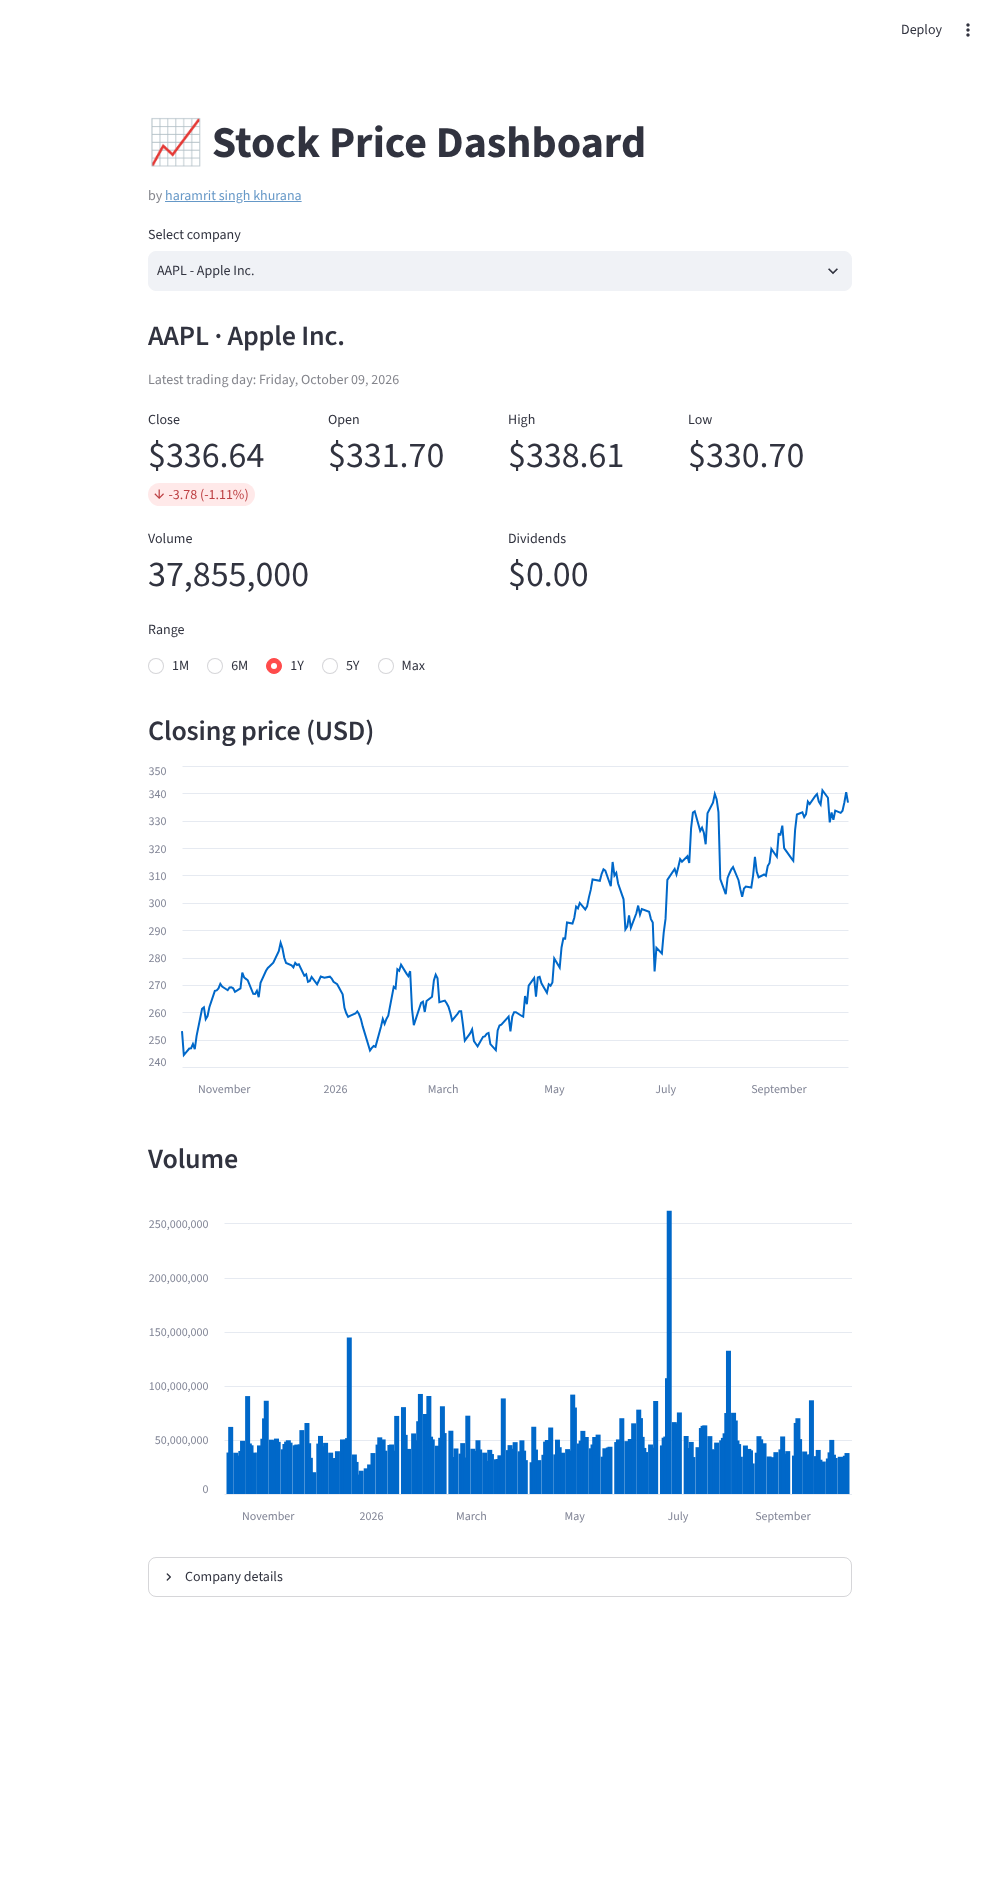
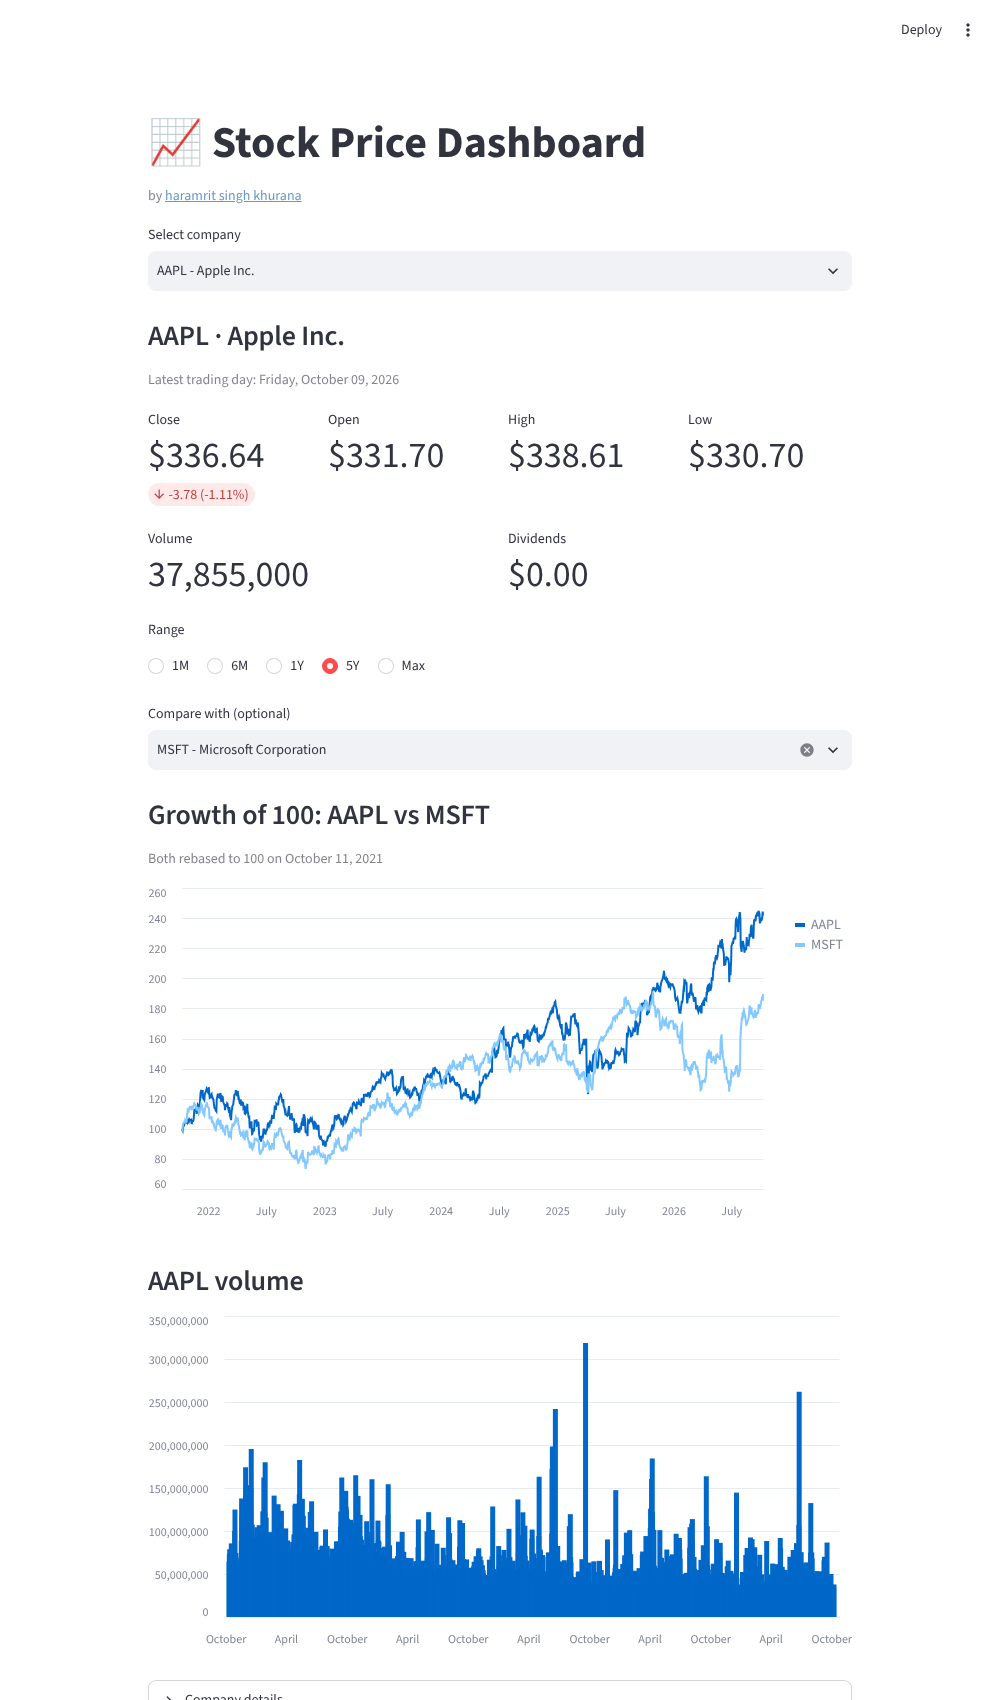
Add optional company comparison, rebased to 100
A second picker overlays another company on the price chart. Both series
are rebased to 100 over the days they both traded in the chosen range.
The comparison is stored in the URL (?compare=MSFT) like the other options.
README updated with the new features and a current screenshot.

Claude-Session: https://claude.ai/code/session_01MhVcD4fY7mhA7hBYkdzYRu

diff --git a/Stock Price Dashboard.py b/Stock Price Dashboard.py
@@ -35,6 +35,8 @@ if 'company' not in st.session_state:
 if 'range' not in st.session_state:
     r = st.query_params.get('range')
     st.session_state.range = r if r in RANGES else '1Y'
+if 'compare' not in st.session_state:
+    st.session_state.compare = label_of.get(st.query_params.get('compare'))
 
 choice = st.selectbox('Select company', labels, key='company')
 company = tickers[tickers['Label'] == choice].iloc[0]
@@ -75,16 +77,58 @@ days = RANGES[range_choice]
 st.query_params['range'] = range_choice
 view = history if days is None else history[history.index >= history.index[-1] - pd.Timedelta(days=days)]
 
-st.subheader("Closing price (USD)")
-# let the y-axis fit the data instead of starting at 0, so price moves are visible
-price_chart = alt.Chart(view['Close'].reset_index()).mark_line().encode(
-    x=alt.X('Date:T', title=None),
-    y=alt.Y('Close:Q', scale=alt.Scale(zero=False), title=None),
-    tooltip=[alt.Tooltip('Date:T'), alt.Tooltip('Close:Q', format='$.2f')],
-)
-st.altair_chart(price_chart)
+compare_choice = st.selectbox('Compare with (optional)', labels, index=None, key='compare',
+                              placeholder='Type a symbol or company name')
 
-st.subheader("Volume")
+# optional second company, drawn on the same chart
+other = None
+if compare_choice:
+    other = tickers[tickers['Label'] == compare_choice].iloc[0]
+    if other['Symbol'] == company['Symbol']:
+        st.info("Pick a different company to compare.")
+        other = None
+    else:
+        other_history = load_history(other['Symbol'])
+        if other_history.empty:
+            st.warning(f"No price data found for {other['Symbol']}, so it can't be compared.")
+            other = None
+
+if other is not None:
+    # rebase both to 100 at the start so growth is comparable, using only the days both traded
+    closes = pd.concat({company['Symbol']: history['Close'], other['Symbol']: other_history['Close']}, axis=1)
+    closes.index = closes.index.tz_localize(None)
+    closes = closes.dropna()
+    if days is not None:
+        closes = closes[closes.index >= closes.index[-1] - pd.Timedelta(days=days)]
+    st.query_params['compare'] = other['Symbol']
+else:
+    st.query_params.pop('compare', None)
+
+if other is not None and closes.empty:
+    st.warning("These two companies have no trading days in common.")
+elif other is not None:
+    st.subheader(f"Growth of 100: {company['Symbol']} vs {other['Symbol']}")
+    st.caption(f"Both rebased to 100 on {closes.index[0].strftime('%B %d, %Y')}")
+    growth = (closes / closes.iloc[0] * 100).rename_axis('Date').reset_index().melt(
+        'Date', var_name='Symbol', value_name='Value')
+    growth_chart = alt.Chart(growth).mark_line().encode(
+        x=alt.X('Date:T', title=None),
+        y=alt.Y('Value:Q', scale=alt.Scale(zero=False), title=None),
+        color=alt.Color('Symbol:N', title=None),
+        tooltip=[alt.Tooltip('Date:T'), 'Symbol:N', alt.Tooltip('Value:Q', format='.1f')],
+    )
+    st.altair_chart(growth_chart)
+else:
+    st.subheader("Closing price (USD)")
+    # let the y-axis fit the data instead of starting at 0, so price moves are visible
+    price_chart = alt.Chart(view['Close'].reset_index()).mark_line().encode(
+        x=alt.X('Date:T', title=None),
+        y=alt.Y('Close:Q', scale=alt.Scale(zero=False), title=None),
+        tooltip=[alt.Tooltip('Date:T'), alt.Tooltip('Close:Q', format='$.2f')],
+    )
+    st.altair_chart(price_chart)
+
+st.subheader(f"{company['Symbol']} volume")
 st.bar_chart(view['Volume'])
 
 with st.expander("Company details"):

diff --git a/README.md b/README.md
@@ -5,6 +5,9 @@ Pick a company and see the latest trading day's figures, a closing-price chart w
 1M / 6M / 1Y / 5Y / Max range picker, and trading volume. Data comes from Yahoo Finance
 via [yfinance](https://github.com/ranaroussi/yfinance).
 
+- **Compare:** pick a second company to overlay both on one chart, rebased to 100 so growth is comparable.
+- **Shareable links:** the URL keeps your selection, e.g. `?symbol=AAPL&compare=MSFT&range=5Y`, so you can send someone the exact view.
+
 ![Dashboard screenshot](screenshot.png)
 
 ### Run locally
